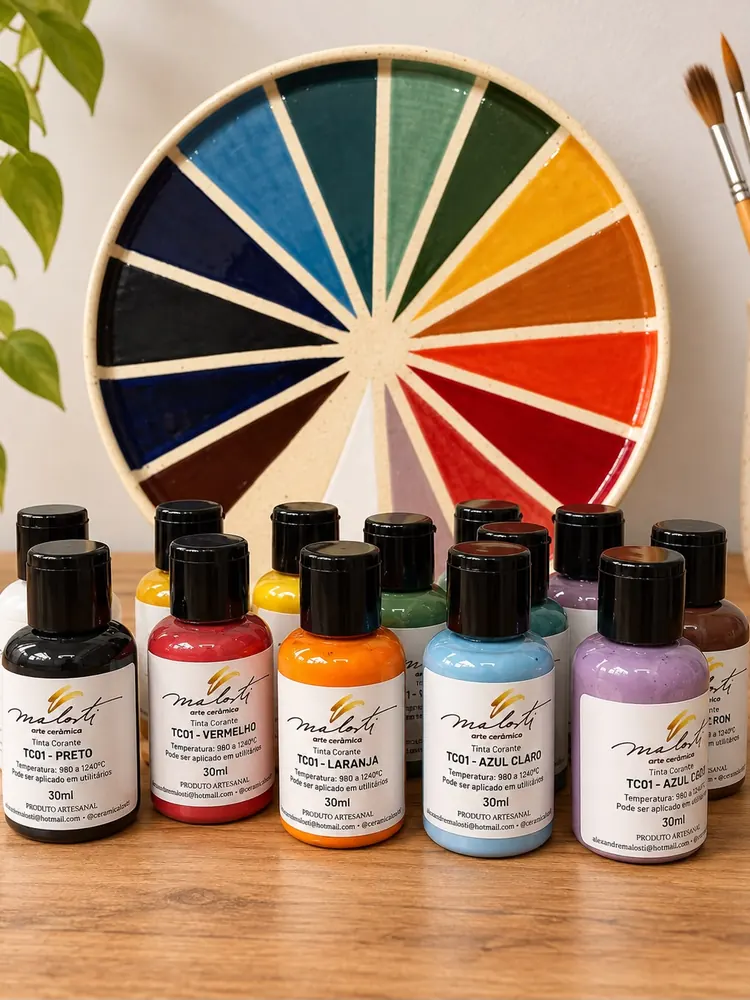
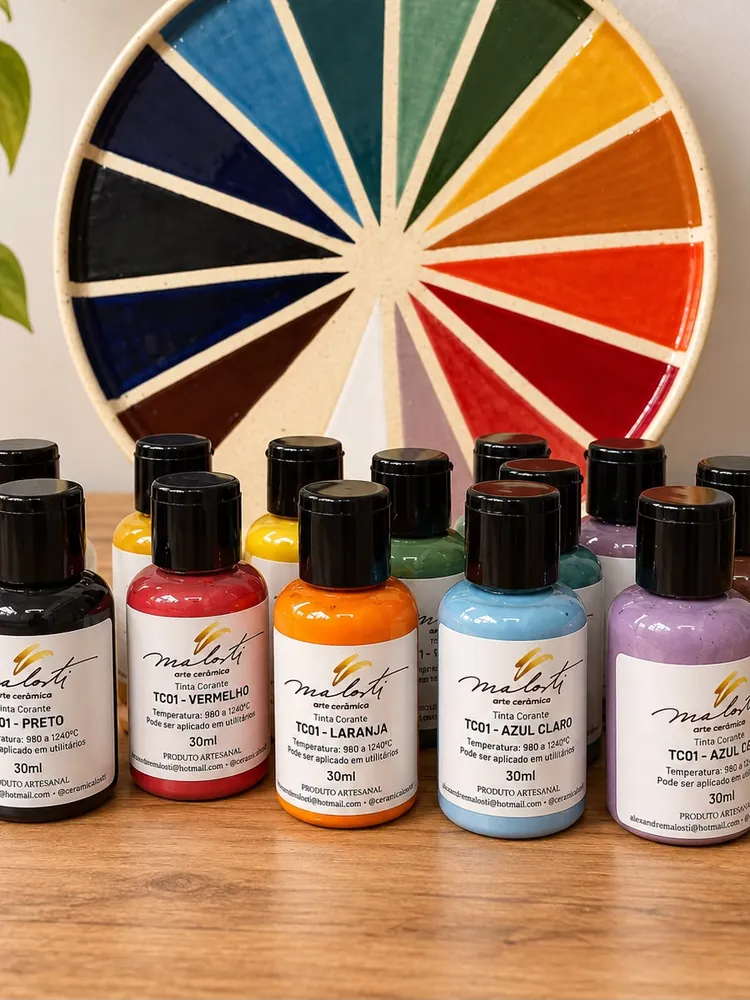
Fotos novas do carrossel e das tintas; Cursos sem a foto no título
- 1º slide: mesa posta com a cerâmica do ateliê (foto nova da Julia); a da prateleira saiu
- Tintas: recortes a partir da foto original, com os rótulos legíveis
  (seção Para ceramistas e slide de materiais no computador e no celular)
- Cursos: sem a foto ao lado do título
- Cartão do curso: espaço de volta entre a descrição e Quem ensina

diff --git a/app/templates/public/home.html b/app/templates/public/home.html
@@ -25,14 +25,15 @@
     "sameAs": ["https://www.instagram.com/malosti.loja"]
   } | tojson }}</script>
   {# Primeira foto do banner baixa antes de tudo (versão certa pra cada tela) #}
-  <link rel="preload" as="image" href="{{ foto('carrossel-prateleira-retrato') }}" media="(max-width: 700px)">
-  <link rel="preload" as="image" href="{{ foto('carrossel-prateleira-1600') }}" media="(min-width: 701px)">
+  <link rel="preload" as="image" href="{{ foto('carrossel-mesa-retrato') }}" media="(max-width: 700px)">
+  <link rel="preload" as="image" href="{{ foto('carrossel-mesa-1600') }}" media="(min-width: 701px)">
 {% endblock %}
 
 {% block content %}
 {# ============ Banner: cada foto tem a sua chamada e o seu destino ============ #}
+{# [front/sobre-e-carrossel] 1º slide com a foto nova da Julia: mesa posta com a cerâmica do ateliê #}
 {% set slides = [
-  {'arquivo': 'carrossel-prateleira', 'alt': 'Copos e pratinhos de cerâmica sobre uma prateleira de madeira',
+  {'arquivo': 'carrossel-mesa', 'alt': 'Mesa posta com pratos, cumbucas e copos de cerâmica verde do ateliê e rosas brancas',
    'rotulo': 'Peças de cerâmica', 'titulo': 'Cerâmica feita à mão,', 'destaque': 'uma peça de cada vez.',
    'texto': 'Peças criadas no ateliê para usar em casa ou dar de presente.',
    'botao': 'Ver as peças', 'link': url_for('shop.lista')},
@@ -169,8 +170,10 @@
 <section class="vitrine vitrine--invertida" id="produtos">
   <div class="container vitrine__grade">
     <figure class="vitrine__foto revelar">
-      <img src="{{ foto('carrossel-tintas-retrato') }}" width="720" height="1080" loading="lazy" decoding="async"
-           alt="Frascos de tinta corante Malosti em frente a um prato com círculo de cores">
+      {# [front/sobre-e-carrossel] Recorte fechado nos frascos, a partir da foto original: os rótulos ficam legíveis #}
+      <img src="{{ foto('vertical-tintas-720') }}" srcset="{{ foto('vertical-tintas-480') }} 480w, {{ foto('vertical-tintas-720') }} 720w"
+           sizes="(max-width: 760px) 88vw, 40vw" width="720" height="1080" loading="lazy" decoding="async"
+           alt="Frascos de tinta corante Malosti com os rótulos à mostra: vermelho, laranja e azul claro, 30 ml">
       <figcaption>Para ceramistas</figcaption>
     </figure>
     <div class="vitrine__texto revelar">

diff --git a/app/static/css/style.css b/app/static/css/style.css
@@ -505,6 +505,8 @@ button.link { background: none; border: 0; padding: 0; font: inherit; color: var
 .texto-formatado ul { margin: 0 0 12px; padding-left: 1.2em; }
 .texto-formatado li { margin-bottom: 4px; }
 .texto-formatado > :last-child { margin-bottom: 0; }
+/* No cartão do curso a descrição volta a ter o espaço de antes de "Quem ensina" */
+.curso__corpo .texto-formatado { margin-bottom: 14px; }
 .texto-formatado em, .sobre em { font-style: italic; color: var(--cor-ambar-escuro); }
 
 .contatos { display: grid; gap: 16px; grid-template-columns: repeat(auto-fit, minmax(240px, 1fr)); margin-bottom: 32px; }
@@ -518,10 +520,6 @@ a.contato:hover { border-color: var(--cor-mocha); }
 .passos li::before { content: "0" counter(passo); display: block; font-family: var(--fonte-titulo); font-size: 2.4rem; color: var(--cor-ambar-escuro); line-height: 1; margin-bottom: 10px; }
 .passos strong { display: block; color: var(--cor-mocha); font-size: 1.05rem; }
 
-.cabecalho--foto { max-width: none; display: grid; grid-template-columns: 160px 1fr; gap: 28px; align-items: center; }
-.cabecalho--foto img { width: 160px; aspect-ratio: 3 / 4; object-fit: cover; }
-.cabecalho--foto > div { max-width: 60ch; }
-@media (max-width: 560px) { .cabecalho--foto { grid-template-columns: 96px 1fr; gap: 18px; } .cabecalho--foto img { width: 96px; } }
 
 /* Página Sobre */
 .sobre { display: grid; gap: clamp(36px, 7vw, 100px); align-items: center; grid-template-columns: minmax(0, 0.9fr) minmax(0, 1.1fr); }

diff --git a/app/templates/public/cursos.html b/app/templates/public/cursos.html
@@ -3,13 +3,11 @@
 {% from "shop/_preco.html" import mostrar_preco %}
 
 {% block content %}
-<header class="cabecalho cabecalho--foto">
-  <img src="{{ url_for('static', filename='img/inicio/carrossel-aula-retrato.webp') }}" width="480" height="721" alt="Três mulheres concentradas em uma aula de cerâmica no ateliê">
-  <div>
+{# [front/sobre-e-carrossel] Sem a foto ao lado do título, a pedido do ateliê #}
+<header class="cabecalho">
   <p class="sobretitulo">Aulas no ateliê</p>
   <h1>Cursos presenciais</h1>
   <p>Turmas pequenas, com acompanhamento de perto, para você colocar a mão no barro.</p>
-  </div>
 </header>
 
 {% if cursos %}
